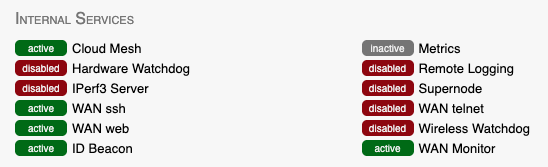
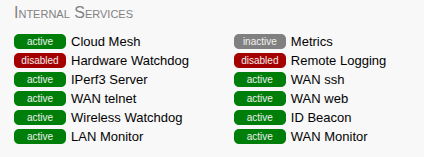
add lan monitor status (#588)

diff --git a/conf.py b/conf.py
@@ -92,7 +92,6 @@ html_theme = 'sphinx_book_theme'
 #
 html_logo = "_images/AREDN-Logo.png"
 html_theme_options = {
-    'logo_only': True,
     "toc_title": "Page Navigation",
     "use_download_button": False,
     "show_toc_level": 3,

diff --git a/arednGettingStarted/node_admin.rst b/arednGettingStarted/node_admin.rst
@@ -438,13 +438,16 @@ You can click the ``Cancel`` button to ignore any changes you made on this displ
 Internal Services
 -----------------
 
-When you are logged in as *admin* you will see an Internal Services status display at the top of the center column. This shows the state of each of the listed services, which will be described below in more detail. The ``Metrics`` status is informational only and simply indicates whether this node is currently being monitored by providing metrics to an external service (such as `Prometheus <https://en.wikipedia.org/wiki/Prometheus_(software)>`_). The ``Supernode`` status is informational and will only appear on nodes capable of being a Supernode, indicating whether this node is currently configured as a Supernode.
+When you are logged in as *admin* you will see an **Internal Services** status display at the top of the center column. This shows the state of each of the listed services which are described below.
 
 .. image:: _images/admin-internal-svc-1.png
  :alt: Admin Internal Services Status
  :align: center
 
-Highlight and click the section displaying your node's **Internal Services**, which allows you to manage the internal settings on your node. Context-sensitive help is available by clicking the ``Help`` button.
+Highlighting and clicking the **Internal Services** section will allow you to manage the internal settings on your node. Context-sensitive help is available by clicking the ``Help`` button.
+
+Informational Statuses
+  ``Metrics`` simply indicates whether this node has provided metrics to an external service such as `Prometheus <https://en.wikipedia.org/wiki/Prometheus_(software)>`_. ``Supernode`` will only appear on nodes capable of being a Supernode and it indicates whether the node is currently configured as a Supernode. ``LAN Monitor`` indicates that LAN services are being checked for reachability, by default every five minutes.
 
 .. image:: _images/admin-internal-svc-2.png
  :alt: Admin Internal Services
